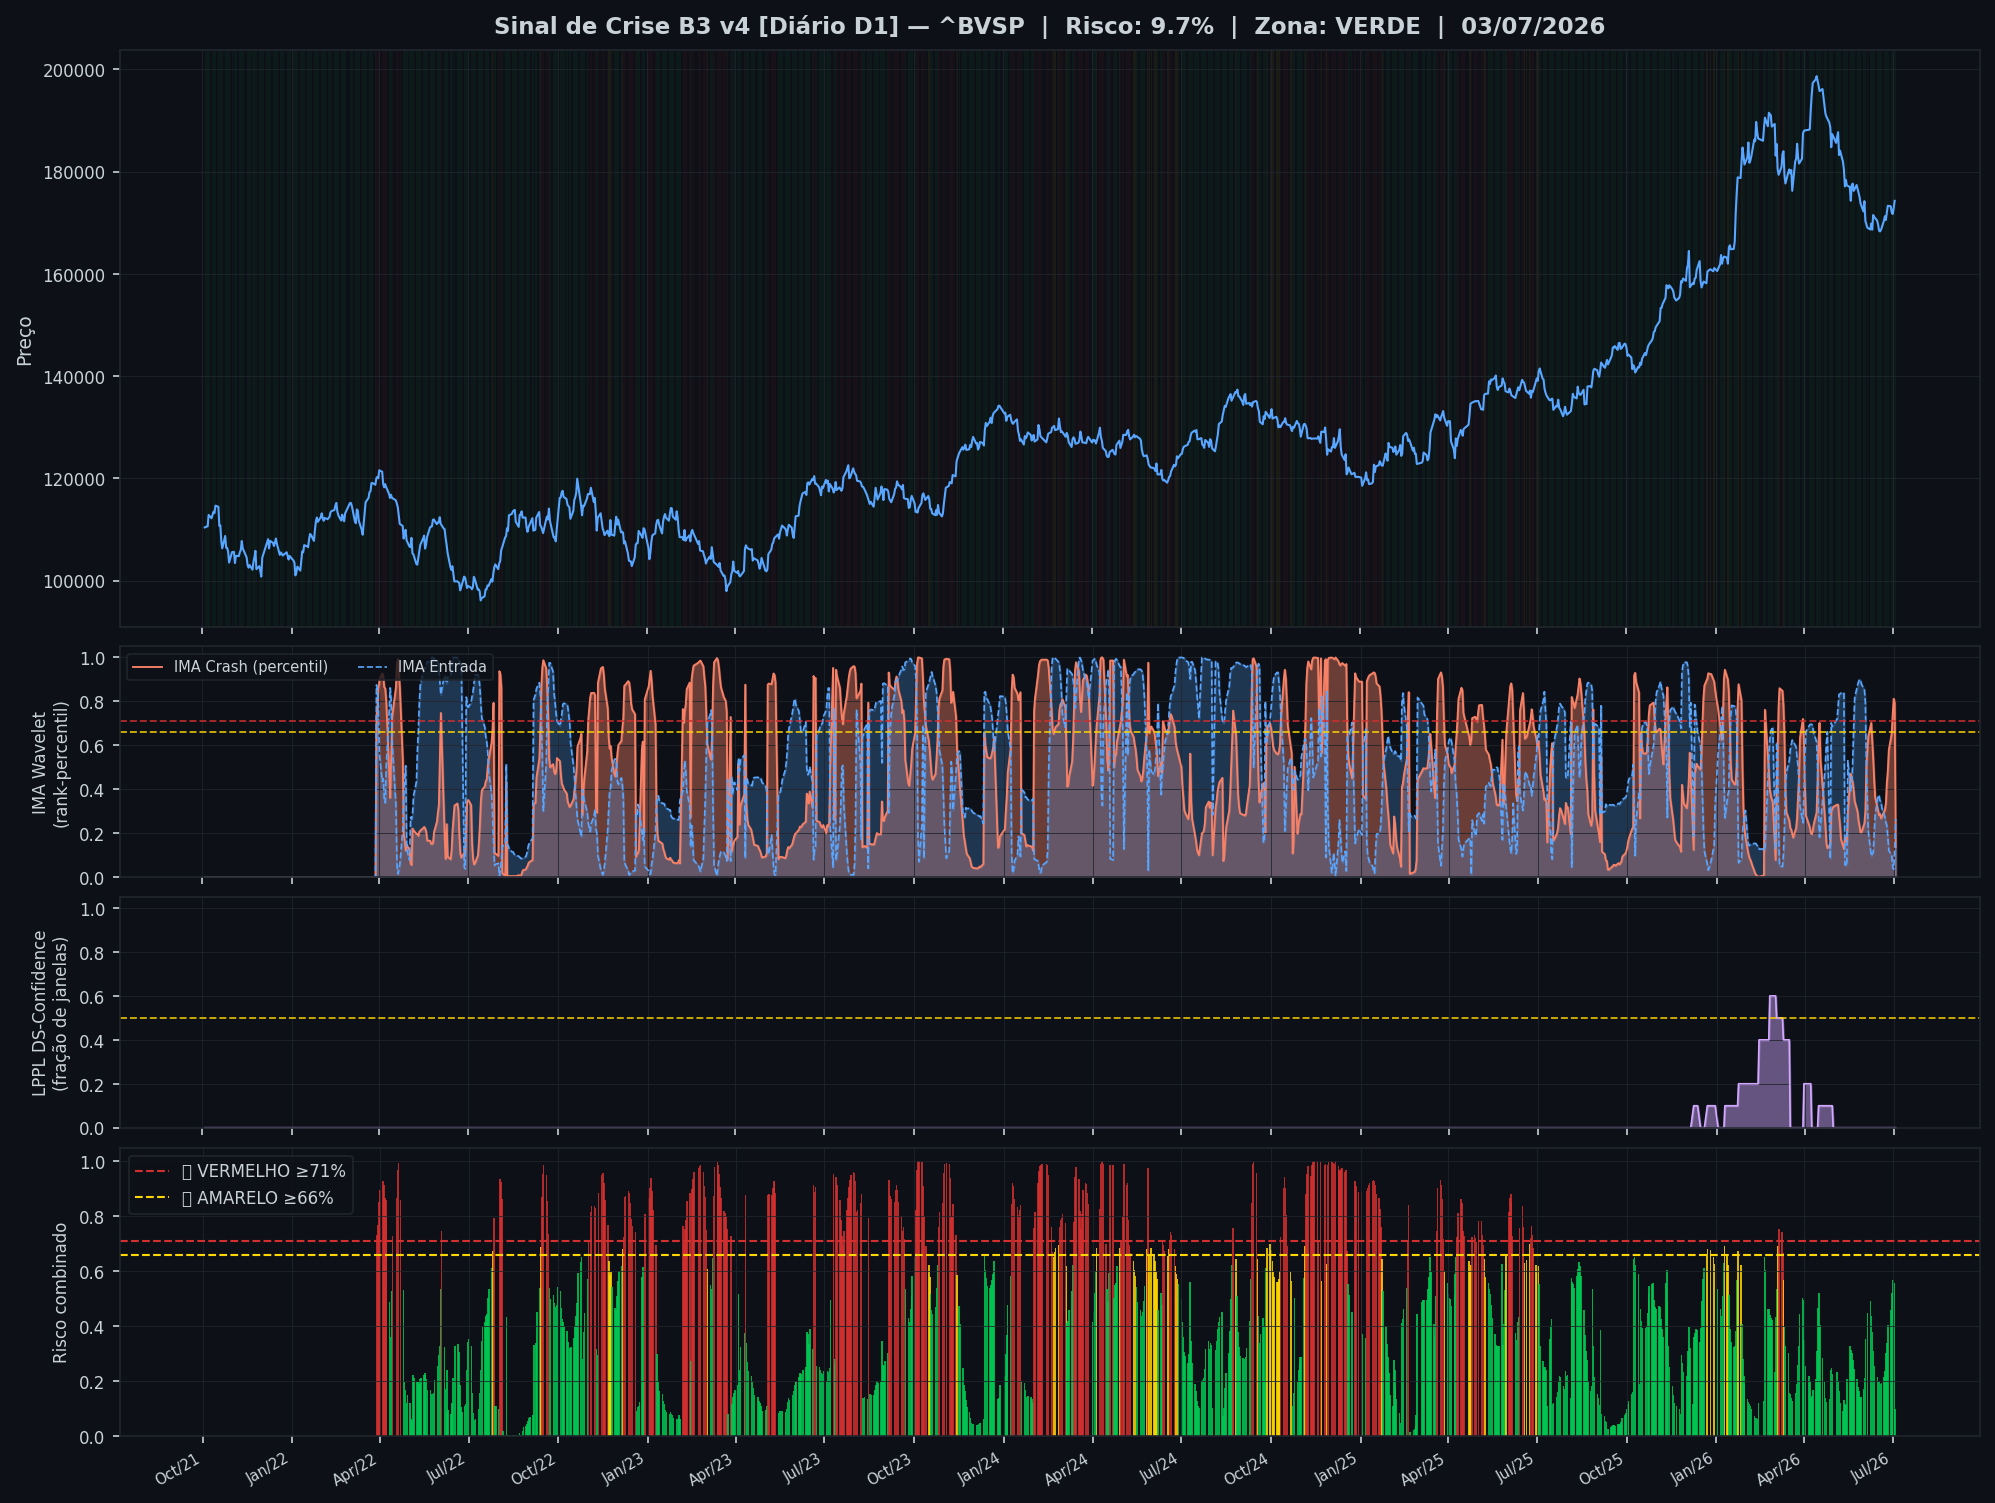
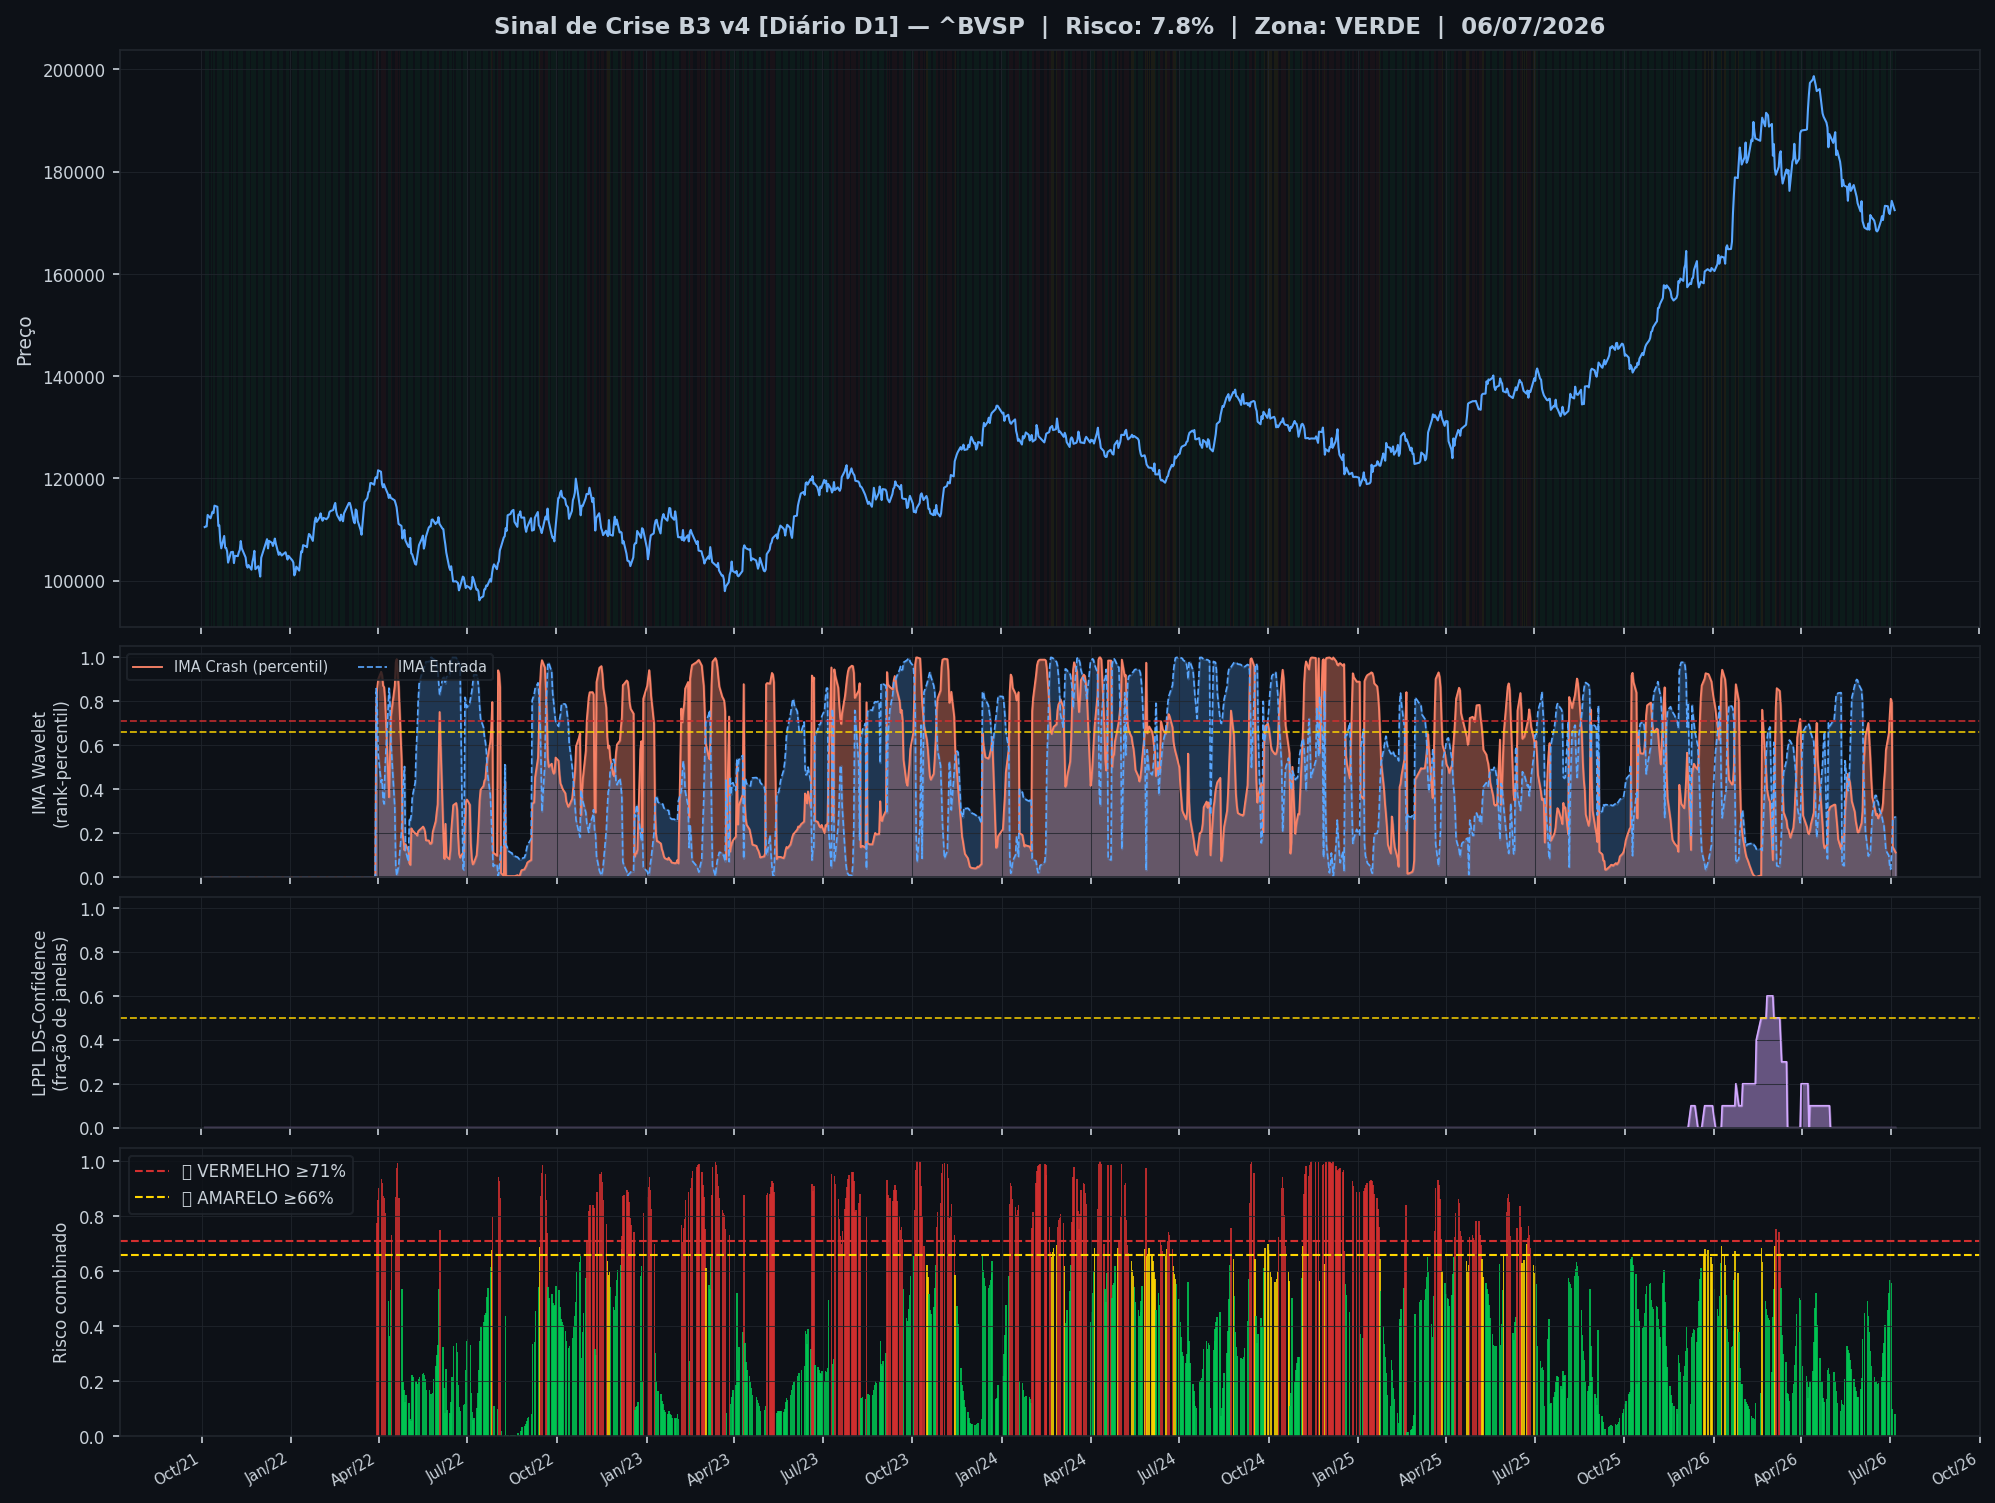
🤖 Auto: Sinal 06/07/2026 19:04

diff --git a/content/diario/2026-07-06.md b/content/diario/2026-07-06.md
@@ -1,0 +1,102 @@
+---
+title: "🟢 Diário 06/07/2026 — VERDE"
+date: 2026-07-06
+tags: [diario]
+---
+
+> [!success] 🟢 **VERDE** — Risco 8% · ▼ -2 p.p. vs leitura anterior
+> `██░░░░░░░░░░░░░░░░░░`
+> Mercado sem sinais relevantes de estresse.
+
+
+| Indicador | Valor |
+|---|---|
+| 🔴 IMA Crash (percentil 2 anos) | **11%** |
+| 🔵 IMA Entrada (compra) | 28% |
+| 🫧 LPPL DS-Confidence | 0% |
+| 📊 Ibovespa | 172.448 pts |
+
+![Gráfico do sinal](../graficos/sinal_diario.png)
+
+## Últimos 30 pregões
+
+| Data | Zona | Risco | IMA | LPPL |
+|---|---|---|---|---|
+| 2026-07-06 | 🟢 VERDE | **8%** | 11% | 0% |
+| 2026-07-03 | 🟢 VERDE | **10%** | 14% | 0% |
+| 2026-07-02 | 🟢 VERDE | **56%** | 80% | 0% |
+| 2026-07-01 | 🟢 VERDE | **57%** | 81% | 0% |
+| 2026-06-30 | 🟢 VERDE | **52%** | 74% | 0% |
+| 2026-06-29 | 🟢 VERDE | **46%** | 65% | 0% |
+| 2026-06-26 | 🟢 VERDE | **40%** | 58% | 0% |
+| 2026-06-25 | 🟢 VERDE | **34%** | 48% | 0% |
+| 2026-06-24 | 🟢 VERDE | **30%** | 43% | 0% |
+| 2026-06-23 | 🟢 VERDE | **24%** | 34% | 0% |
+| 2026-06-22 | 🟢 VERDE | **21%** | 31% | 0% |
+| 2026-06-19 | 🟢 VERDE | **19%** | 28% | 0% |
+| 2026-06-18 | 🟢 VERDE | **19%** | 27% | 0% |
+| 2026-06-17 | 🟢 VERDE | **20%** | 29% | 0% |
+| 2026-06-16 | 🟢 VERDE | **20%** | 28% | 0% |
+| 2026-06-15 | 🟢 VERDE | **21%** | 30% | 0% |
+| 2026-06-12 | 🟢 VERDE | **25%** | 36% | 0% |
+| 2026-06-11 | 🟢 VERDE | **31%** | 44% | 0% |
+| 2026-06-10 | 🟢 VERDE | **38%** | 54% | 0% |
+| 2026-06-09 | 🟢 VERDE | **44%** | 62% | 0% |
+| 2026-06-08 | 🟢 VERDE | **49%** | 70% | 0% |
+| 2026-06-05 | 🟢 VERDE | **45%** | 64% | 0% |
+| 2026-06-03 | 🟢 VERDE | **35%** | 50% | 0% |
+| 2026-06-02 | 🟢 VERDE | **21%** | 30% | 0% |
+| 2026-06-01 | 🟢 VERDE | **17%** | 25% | 0% |
+| 2026-05-29 | 🟢 VERDE | **14%** | 20% | 0% |
+| 2026-05-28 | 🟢 VERDE | **14%** | 20% | 0% |
+| 2026-05-27 | 🟢 VERDE | **16%** | 23% | 0% |
+| 2026-05-26 | 🟢 VERDE | **18%** | 26% | 0% |
+| 2026-05-25 | 🟢 VERDE | **21%** | 30% | 0% |
+
+## Monitor Multi-Ativo
+
+**19% dos ativos em tensão** (0🔴 7🟡) — quanto mais ativos disparam juntos, mais confiável o sinal.
+
+| Zona | Ativo | Setor | IMA Crash | IMA Entrada |
+|---|---|---|---|---|
+| 🟡 | **VIBRA** | Energia | 89.0% | 5.8% |
+| 🟡 | **PRIO** | Petróleo | 77.8% | 31.2% |
+| 🟡 | **PETROBRAS** | Petróleo | 77.6% | 30.2% |
+| 🟡 | **AMBEV S/A** | Consumo | 77.2% | 2.0% |
+| 🟡 | **GERDAU** | Siderurgia | 76.2% | 4.8% |
+| 🟢 | **VALE** | Mineração | 74.2% | 3.8% |
+| 🟡 | **EQUATORIAL** | Energia | 70.2% | 13.0% |
+| 🟡 | **ULTRAPAR** | Outros | 69.6% | 12.2% |
+| 🟢 | **PETROBRAS** | Petróleo | 53.6% | 54.0% |
+| 🟢 | **SABESP** | Saneamento | 50.2% | 68.8% |
+| 🟢 | **B3** | Financeiro | 44.4% | 55.0% |
+| 🟢 | **ENEVA** | Energia | 34.6% | 60.2% |
+| 🟢 | **LOCALIZA** | Aluguel | 27.6% | 59.2% |
+| 🟢 | **BRADESCO** | Financeiro | 19.0% | 19.0% |
+| 🟢 | **REDE D OR** | Saúde | 12.2% | 30.0% |
+| 🟢 | **BRASIL** | Financeiro | 11.8% | 43.4% |
+| 🟢 | **USD/BRL** | Câmbio | 11.8% | 32.8% |
+| 🟢 | **COPEL** | Energia | 10.8% | 31.6% |
+| 🟢 | **AXIA ENERGIA** | Energia | 7.4% | 17.0% |
+| 🟢 | **BTGP BANCO** | Financeiro | 6.8% | 30.0% |
+| 🟢 | **SUZANO S.A.** | Papel/Celulose | 6.2% | 43.4% |
+| 🟢 | **TELEF BRASIL** | Outros | 5.4% | 24.4% |
+| 🟢 | **ITAUSA** | Financeiro | 3.6% | 18.4% |
+| 🟢 | **ITAUUNIBANCO** | Financeiro | 1.6% | 14.8% |
+| 🟢 | **EMBRAER** | Outros | 0.8% | 23.8% |
+| 🟢 | **WEG** | Industrial | 0.2% | 27.6% |
+
+![Monitor multi-ativo](../graficos/multi_diario.png)
+
+> [!info]- Como interpretar (clique para expandir)
+> - **IMA Crash**: percentil do índice de mudanças abruptas de Caetano nos últimos 2 anos. 80% = estresse espectral acima de 80% do histórico recente — alta frequência com baixa volatilidade, padrão que antecede viradas.
+> - **IMA Entrada**: mesmo método nas frequências baixas — mercado estável após queda, possível oportunidade de compra.
+> - **LPPL DS-Confidence**: fração de janelas (60–504 pregões) em que o modelo de bolha de Sornette produz um ajuste válido. 30% já é relevante; acima de 50% é forte evidência de estrutura de bolha.
+> - **Zonas com histerese**: o sinal só muda de zona ao cruzar o limiar de entrada, e só volta ao cruzar o de saída — evita flip-flop diário.
+
+
+---
+*Sinal de Crise B3 v4 · IMA Wavelet ([Caetano & Yoneyama, Physica-A 2007](https://doi.org/10.1016/j.physa.2007.03.054)) + LPPL DS-Confidence (Sornette, ETH-Zurich) · [Metodologia](metodologia) · [Histórico](historico)*
+
+> [!quote]- Aviso
+> Estudo acadêmico. Não constitui recomendação de investimento.

diff --git a/content/index.md b/content/index.md
@@ -8,21 +8,21 @@ tags: [home]
 
 Monitoramento diário e intraday do Ibovespa — **IMA Wavelet** (Prof. Marco Antonio Leonel Caetano, ITA/INSPER) + **LPPL DS-Confidence** (Prof. Didier Sornette, ETH-Zurich).
 
-*Última atualização: 06/07/2026 18:02 BRT · ^BVSP · Intraday 15min · v4*
+*Última atualização: 06/07/2026 19:04 BRT · ^BVSP · Diário D1 · v4*
 
-> [!success] 🟢 **VERDE** — Risco 39% · ▲ +6 p.p. vs leitura anterior
-> `████████░░░░░░░░░░░░`
+> [!success] 🟢 **VERDE** — Risco 8% · ▼ -2 p.p. vs leitura anterior
+> `██░░░░░░░░░░░░░░░░░░`
 > Mercado sem sinais relevantes de estresse.
 
 
 | Indicador | Valor |
 |---|---|
-| 🔴 IMA Crash (percentil 2 anos) | **39%** |
-| 🔵 IMA Entrada (compra) | 87% |
+| 🔴 IMA Crash (percentil 2 anos) | **11%** |
+| 🔵 IMA Entrada (compra) | 28% |
 | 🫧 LPPL DS-Confidence | 0% |
-| 📊 Ibovespa | 172.360 pts |
+| 📊 Ibovespa | 172.448 pts |
 
-**Multi-ativo:** 42% em tensão (8🔴 3🟡 de 26 ativos)
+**Multi-ativo:** 19% em tensão (0🔴 7🟡 de 26 ativos)
 
 
 > [!tip]- Calibração v4 (backtest 15y)
@@ -32,8 +32,13 @@ Monitoramento diário e intraday do Ibovespa — **IMA Wavelet** (Prof. Marco An
 
 | Data | Zona | Risco | IMA | LPPL |
 |---|---|---|---|---|
-| [06 Jul 2026](diario/2026-07-06) | 🟢 VERDE | **39%** | 39% | 0% |
-| [03 Jul 2026](diario/2026-07-03) | 🟡 AMARELO | **59%** | 59% | 0% |
+| [06 Jul 2026](diario/2026-07-06) | 🟢 VERDE | **8%** | 11% | 0% |
+| [03 Jul 2026](diario/2026-07-03) | 🟢 VERDE | **10%** | 14% | 0% |
+| [02 Jul 2026](diario/2026-07-02) | 🟢 VERDE | **56%** | 80% | 0% |
+| [01 Jul 2026](diario/2026-07-01) | 🟢 VERDE | **57%** | 81% | 0% |
+| [30 Jun 2026](diario/2026-06-30) | 🟢 VERDE | **52%** | 74% | 0% |
+| [29 Jun 2026](diario/2026-06-29) | 🟢 VERDE | **46%** | 65% | 0% |
+| [26 Jun 2026](diario/2026-06-26) | 🟢 VERDE | **40%** | 58% | 0% |
 
 ## Navegação
 

diff --git a/content/historico.md b/content/historico.md
@@ -7,6 +7,7 @@ tags: [historico]
 
 | Data | Modo | Zona | Risco | IMA | LPPL |
 |---|---|---|---|---|---|
+| 2026-07-06 | diario | 🟢 VERDE | 8% | 11% | 0% |
 | 2026-07-06 19:45 | intraday | 🟢 VERDE | 39% | 39% | 0% |
 | 2026-07-03 | diario | 🟢 VERDE | 10% | 14% | 0% |
 
